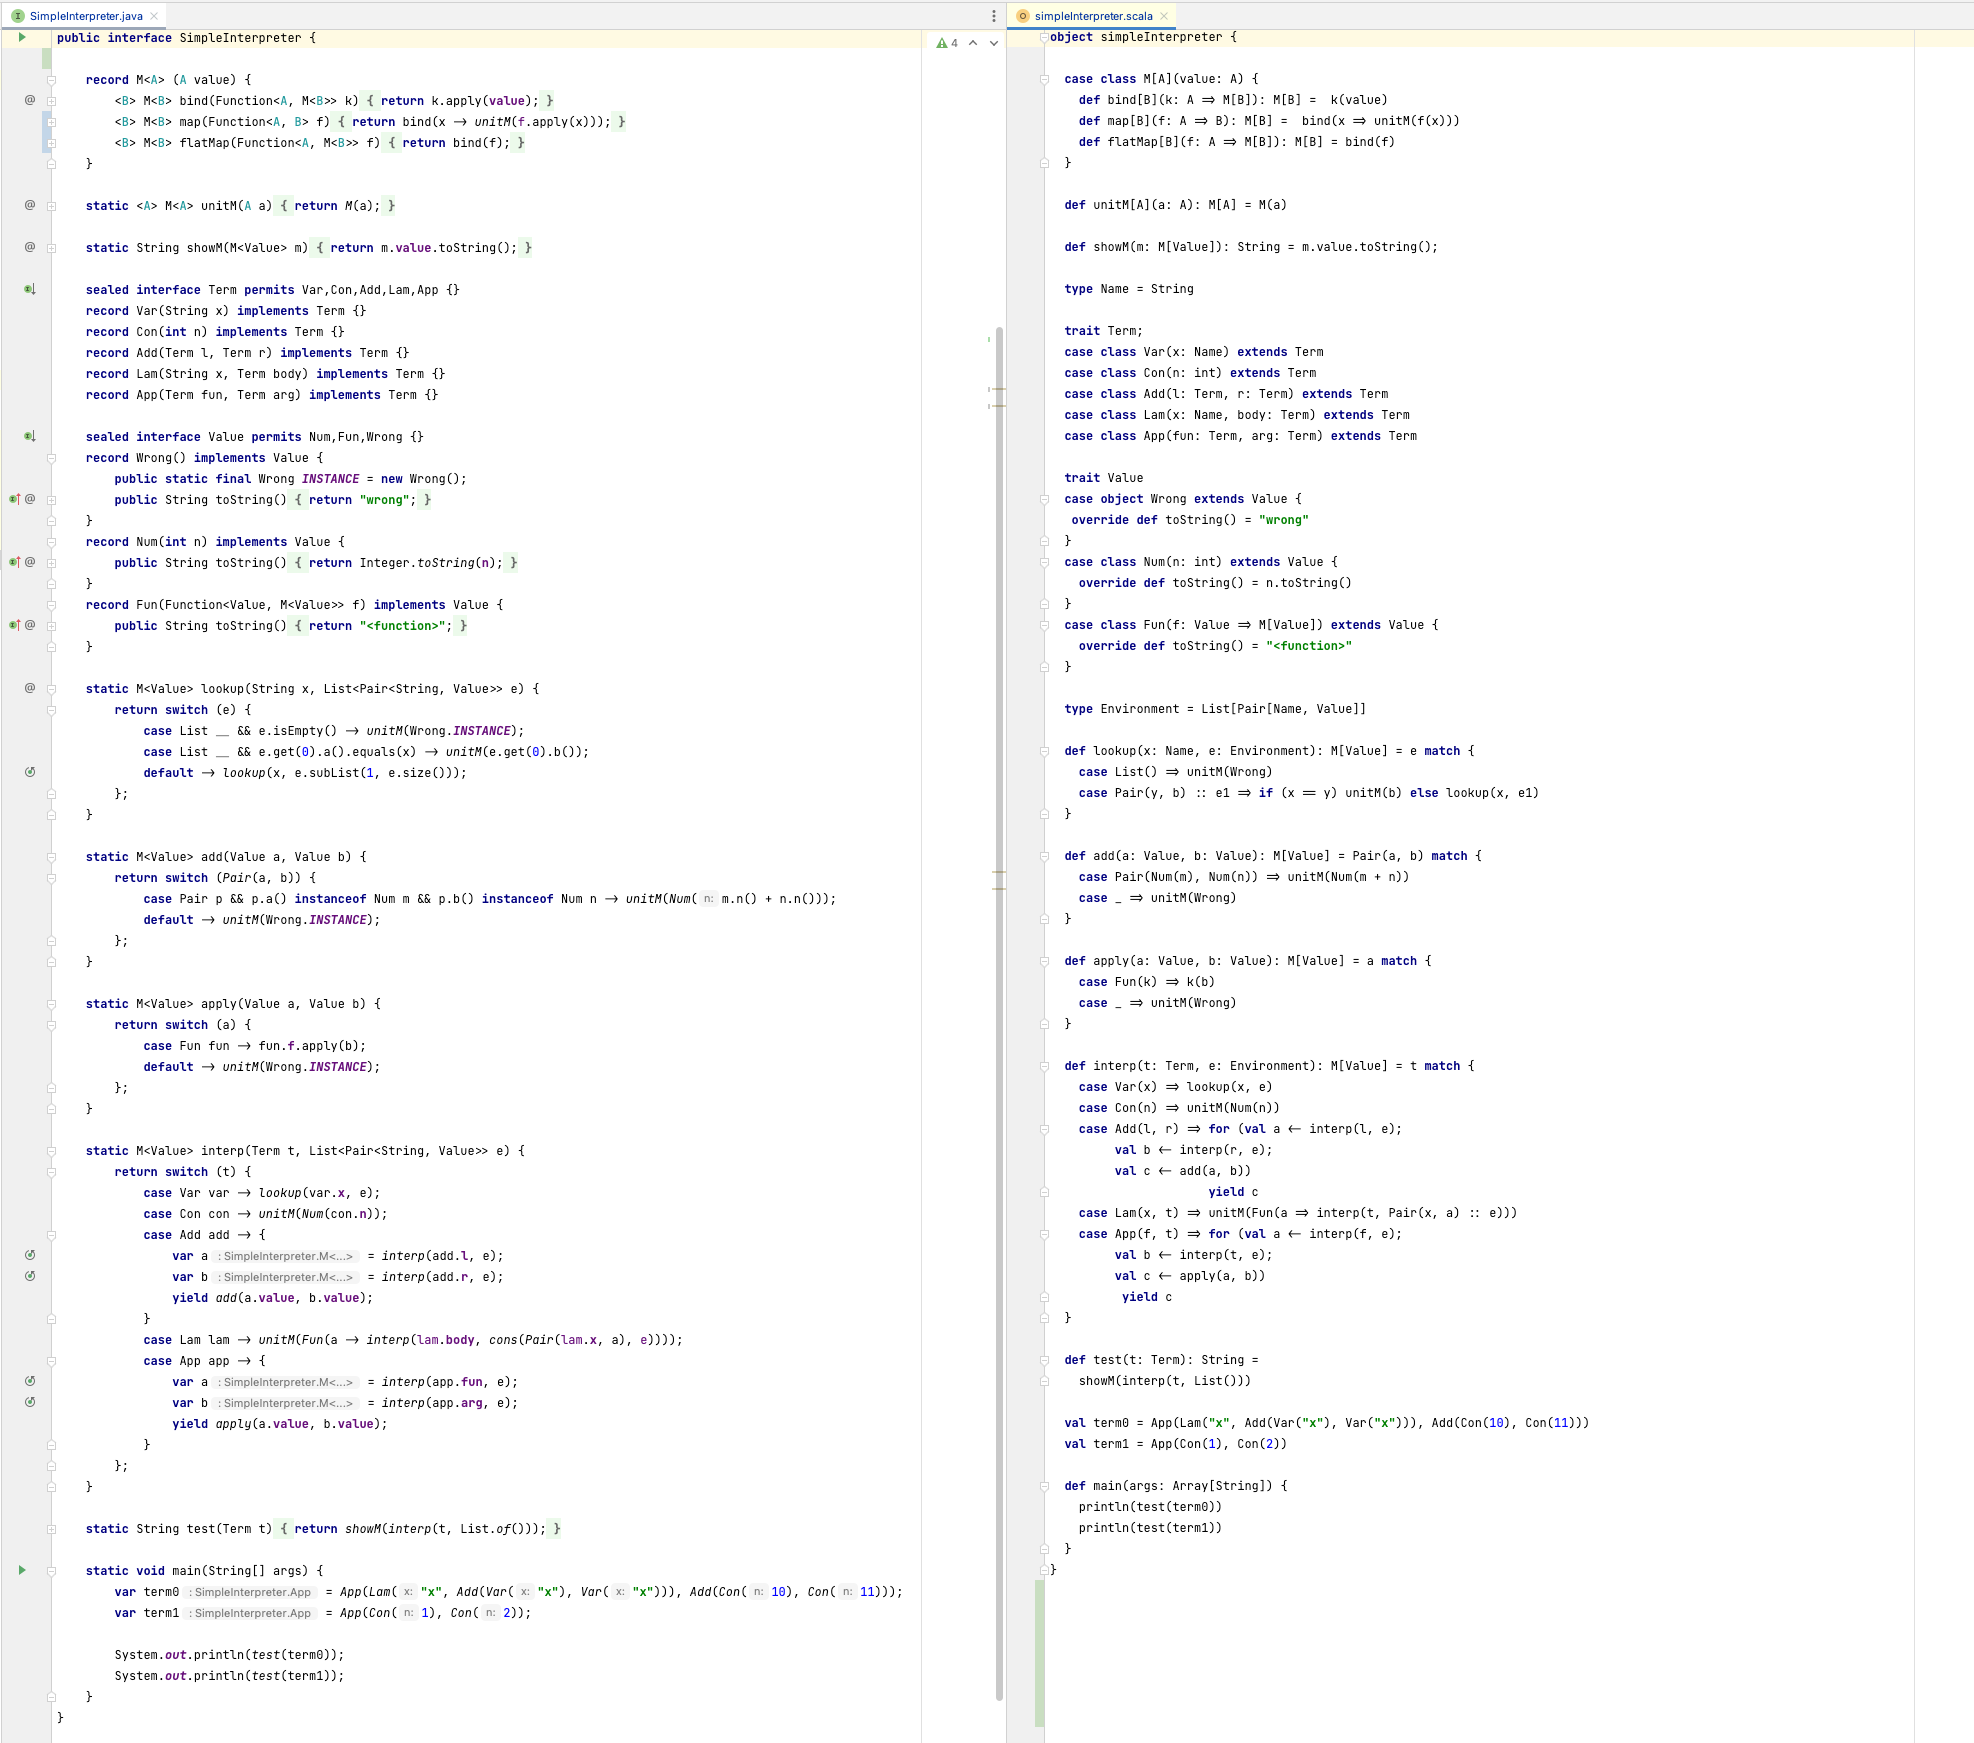
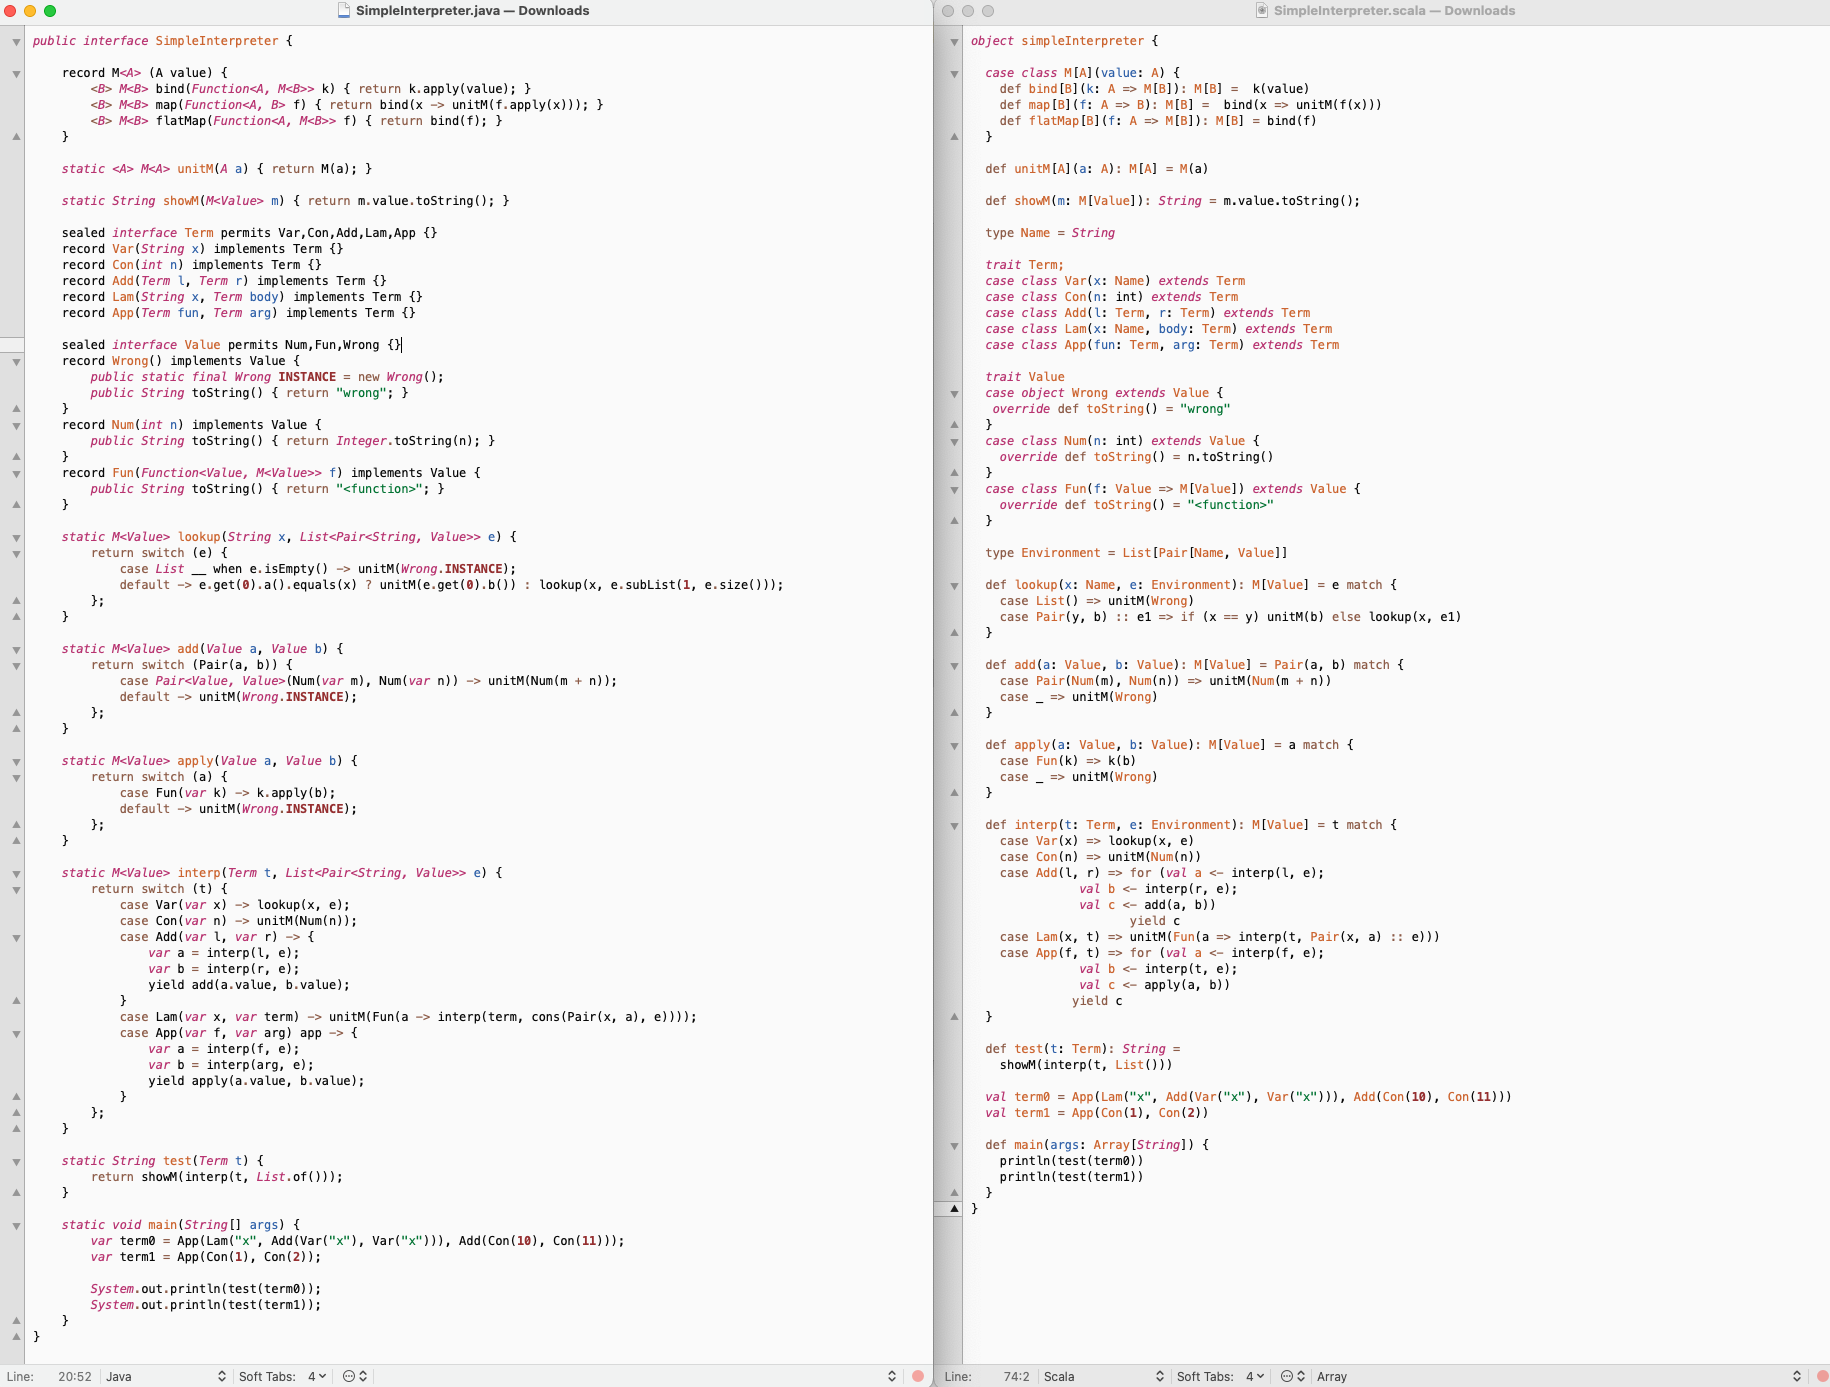
First pass at Java 19 support
Closes #3

diff --git a/java-19/src/main/java/examples/SimpleInterpreter.java b/java-19/src/main/java/examples/SimpleInterpreter.java
@@ -1,0 +1,115 @@
+package examples;
+
+import java.util.List;
+import java.util.function.Function;
+
+import static examples.AddBuilder.Add;
+import static examples.AppBuilder.App;
+import static examples.ConBuilder.Con;
+import static examples.FunBuilder.Fun;
+import static examples.Helpers.cons;
+import static examples.LamBuilder.Lam;
+import static examples.MBuilder.M;
+import static examples.NumBuilder.Num;
+import static examples.PairBuilder.Pair;
+import static examples.VarBuilder.Var;
+
+public interface SimpleInterpreter {
+    record M<A> (A value) {
+        <B> M<B> bind(Function<A, M<B>> k) {
+            return k.apply(value);
+        }
+
+        <B> M<B> map(Function<A, B> f) {
+            return bind(x -> unitM(f.apply(x)));
+        }
+
+        <B> M<B> flatMap(Function<A, M<B>> f) {
+            return bind(f);
+        }
+    }
+
+    static <A> M<A> unitM(A a) {
+        return M(a);
+    }
+
+    static String showM(M<Value> m) {
+        return m.value.toString();
+    }
+
+    sealed interface Term permits Var,Con,Add,Lam,App {}
+    record Var(String x) implements Term {}
+    record Con(int n) implements Term {}
+    record Add(Term l, Term r) implements Term {}
+    record Lam(String x, Term body) implements Term {}
+    record App(Term fun, Term arg) implements Term {}
+
+    sealed interface Value permits Num,Fun,Wrong {}
+    record Wrong() implements Value {
+        public static final Wrong INSTANCE = new Wrong();
+        public String toString() {
+            return "wrong";
+        }
+    }
+    record Num(int n) implements Value {
+        public String toString() {
+            return Integer.toString(n);
+        }
+    }
+    record Fun(Function<Value, M<Value>> f) implements Value {
+        public String toString() {
+            return "<function>";
+        }
+    }
+
+    static M<Value> lookup(String x, List<Pair<String, Value>> e) {
+        return switch (e) {
+            case List __ when e.isEmpty() -> unitM(Wrong.INSTANCE);
+            default -> e.get(0).a().equals(x) ? unitM(e.get(0).b()) : lookup(x, e.subList(1, e.size()));
+        };
+    }
+
+    static M<Value> add(Value a, Value b) {
+        return switch (Pair(a, b)) {
+            case Pair<Value, Value>(Num(var m), Num(var n)) -> unitM(Num(m + n));
+            default -> unitM(Wrong.INSTANCE);
+        };
+    }
+
+    static M<Value> apply(Value a, Value b) {
+        return switch (a) {
+            case Fun(var k) -> k.apply(b);
+            default -> unitM(Wrong.INSTANCE);
+        };
+    }
+
+    static M<Value> interp(Term t, List<Pair<String, Value>> e) {
+        return switch (t) {
+            case Var(var x) -> lookup(x, e);
+            case Con(var n) -> unitM(Num(n));
+            case Add(var l, var r) -> {
+                var a = interp(l, e);
+                var b = interp(r, e);
+                yield add(a.value, b.value);
+            }
+            case Lam(var x, var term) -> unitM(Fun(a -> interp(term, cons(Pair(x, a), e))));
+            case App(var f, var arg) app -> {
+                var a = interp(f, e);
+                var b = interp(arg, e);
+                yield apply(a.value, b.value);
+            }
+        };
+    }
+
+    static String test(Term t) {
+        return showM(interp(t, List.of()));
+    }
+
+    static void main(String[] args) {
+        var term0 = App(Lam("x", Add(Var("x"), Var("x"))), Add(Con(10), Con(11)));
+        var term1 = App(Con(1), Con(2));
+
+        System.out.println(test(term0));
+        System.out.println(test(term1));
+    }
+}

diff --git a/java-19/src/main/java/examples/Helpers.java b/java-19/src/main/java/examples/Helpers.java
@@ -1,0 +1,30 @@
+package examples;
+
+import io.soabase.recordbuilder.core.RecordBuilder;
+
+import java.util.ArrayList;
+import java.util.Collections;
+import java.util.List;
+
+@RecordBuilder.Options(
+    prefixEnclosingClassNames = false
+)
+@RecordBuilder.Include({
+    SimpleInterpreter.M.class,
+    SimpleInterpreter.Num.class,
+    SimpleInterpreter.Fun.class,
+    SimpleInterpreter.App.class,
+    SimpleInterpreter.Lam.class,
+    SimpleInterpreter.Add.class,
+    SimpleInterpreter.Var.class,
+    SimpleInterpreter.Con.class,
+    Pair.class
+})
+public class Helpers {
+    public static <T> List<T> cons(T value, List<T> list) {
+        var worker = new ArrayList<T>();
+        worker.add(value);
+        worker.addAll(list);
+        return Collections.unmodifiableList(worker);
+    }
+}

diff --git a/java-19/src/main/java/examples/Pair.java b/java-19/src/main/java/examples/Pair.java
@@ -1,0 +1,3 @@
+package examples;
+
+public record Pair<A, B>(A a, B b) {}

diff --git a/README.md b/README.md
@@ -16,7 +16,14 @@ page and shows the expressiveness of case classes.
 
 Three Java attempts are shown. Versions in Java 15 and 17 taking advantage of records and Java's initial support for pattern matching. The other in Java 8.
 
-[![](comparison.png)](https://raw.githubusercontent.com/Randgalt/expressive-java/master/comparison.png)
+[![](comparison.png)](comparison.png)
+
+## Java 19 Attempt
+
+Record patterns are now available and the Java version is nearly identical to the Scala version. Record patterns
+are limited to type comparison and extraction and so can't match on, for example, empty-list but that's aboout
+the only feature missing. Java is still more verbose (the need for `var` for example) but it's very impressive
+how close it now is. Java, of course, is still missing a built-in `Pair` syntax for list head/tail, etc.
 
 ## Java 17 Attempt
 
@@ -71,6 +78,9 @@ casts must be done in the parts of the code that match on operation types.
 - Java 15 Attempt: [Java 15 SimpleInterpreter](https://github.com/Randgalt/expressive-java/blob/master/java-15/src/main/java/examples/SimpleInterpreter.java#L17)
 - Java 8 Attempt: [Java 8 SimpleInterpreter](https://github.com/Randgalt/expressive-java/blob/master/java-8/src/main/java/examples/SimpleInterpreter.java#L9)
 - Helpers:
+  - Java 19:
+    - [Helpers.java](https://github.com/Randgalt/expressive-java/blob/master/java-19/src/main/java/examples/Helpers.java)
+    - [Pair.java](https://github.com/Randgalt/expressive-java/blob/master/java-19/src/main/java/examples/Pair.java)
   - Java 17:
     - [Helpers.java](https://github.com/Randgalt/expressive-java/blob/master/java-17/src/main/java/examples/Helpers.java)
     - [Pair.java](https://github.com/Randgalt/expressive-java/blob/master/java-17/src/main/java/examples/Pair.java)
@@ -83,6 +93,7 @@ casts must be done in the parts of the code that match on operation types.
 
 ## Building/Running
 
-- Make sure [Java 15](https://jdk.java.net/15/) is installed and is set via `JAVA_HOME`
+- Make sure Javas 8, 15, 17 and 19 are installed as well as [jenv](https://www.jenv.be)
 - Make sure a recent version of [Maven](https://maven.apache.org) is installed
-- From the root directory run `./run.sh` to build and run both the Java 15 and Java 8 versions
+- From the root directory run `./run.sh`
+
